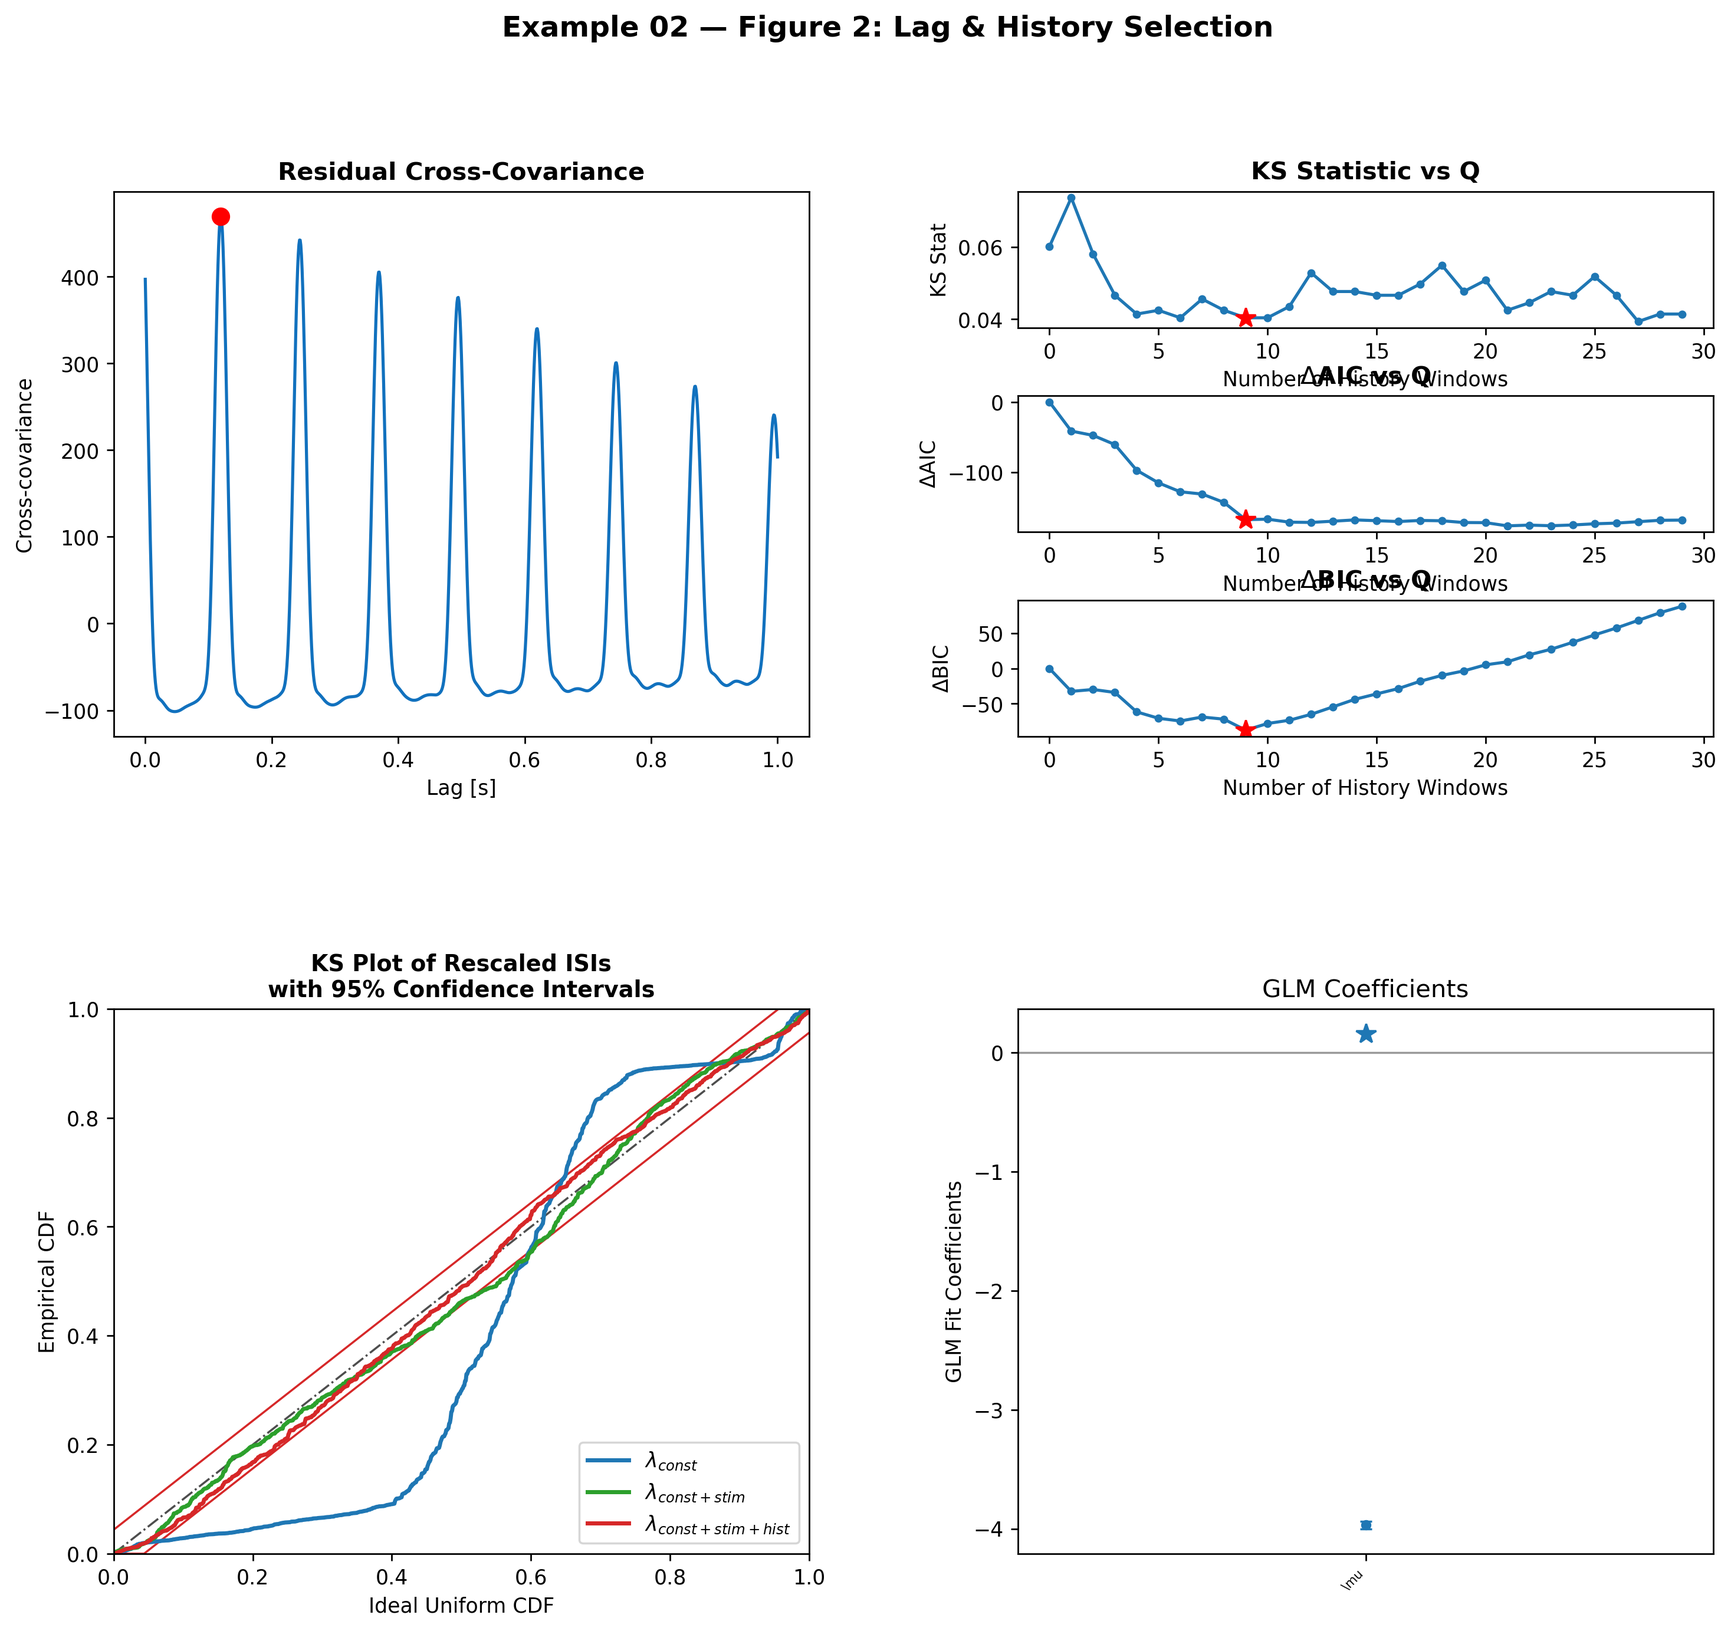
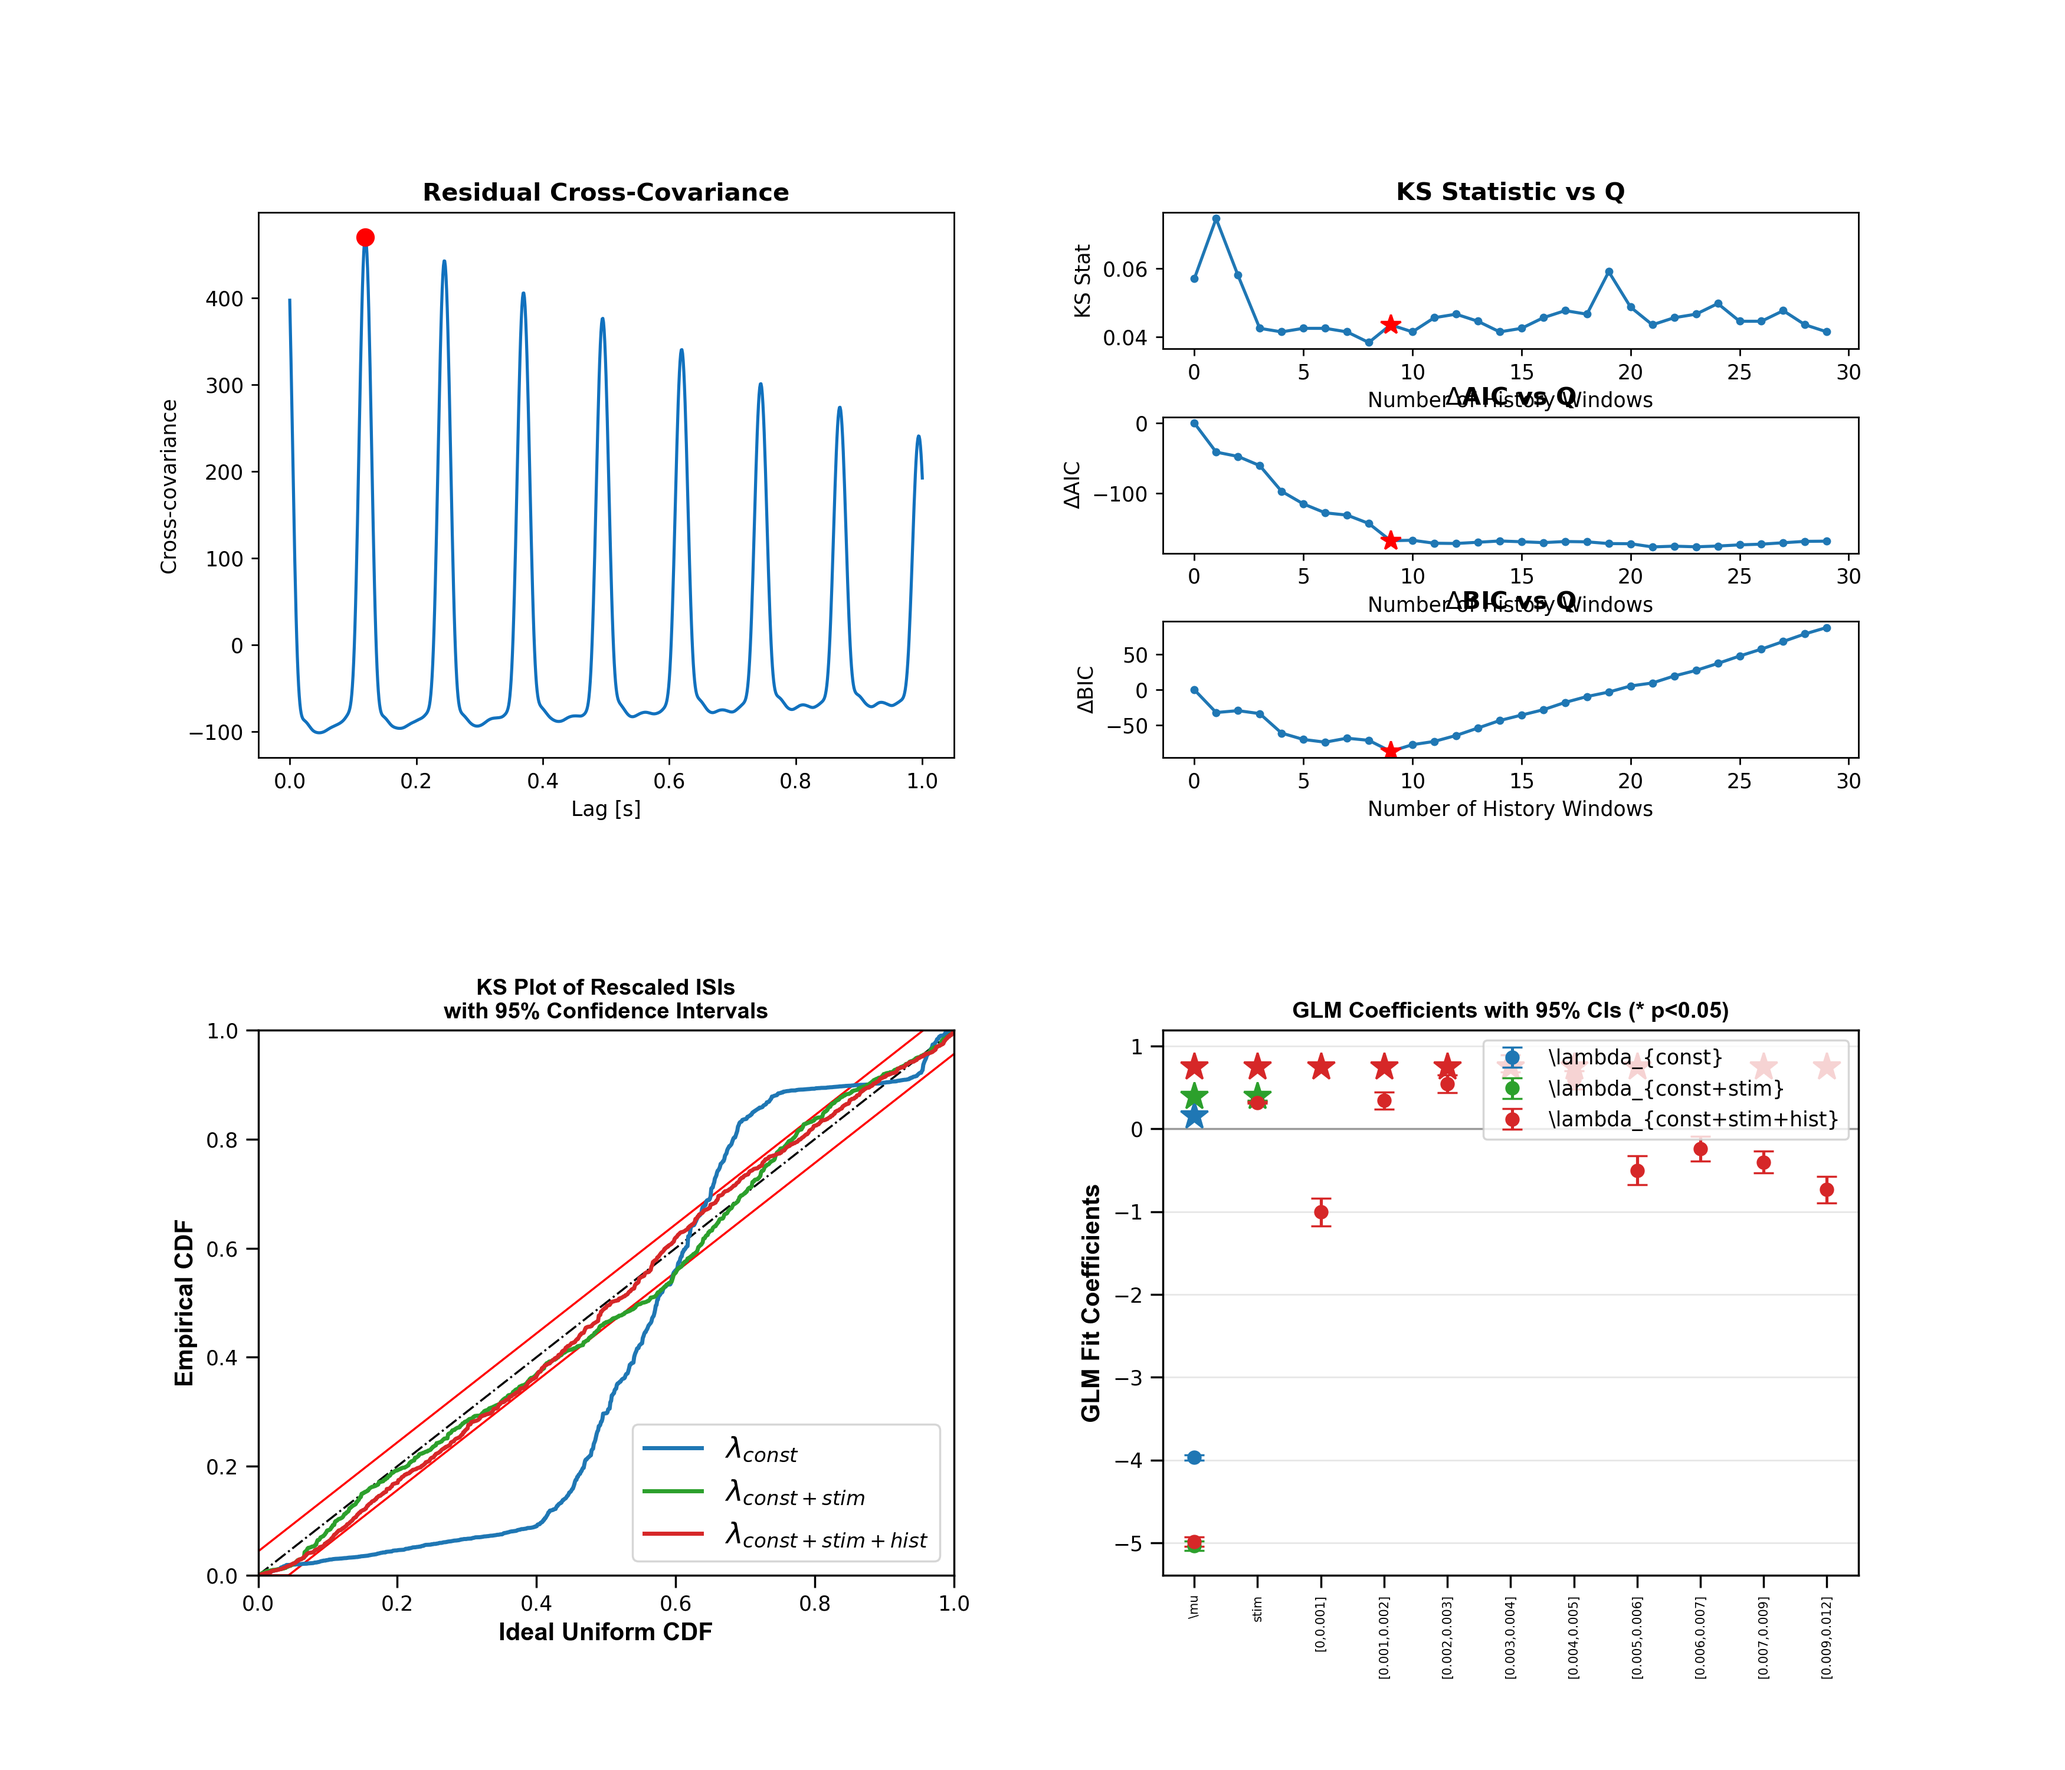
fix: match Python figures to MATLAB reference for examples 02 and 03
- Rotate fig05 stimulus-effect surfaces 90° CCW so time [s] is on x-axis
  and Trial [k] is on y-axis, matching MATLAB nSTATPaperExamples_15.png
  and fig03 bottom-panel orientation
- Increase plotCoeffs marker size (8→12), capsize (3→5), linewidth (1→1.5),
  and significance star size (10→14) so all 3 model coefficients are visible
- Add legend to plotCoeffs using lambda dataLabels, matching MATLAB behaviour
- Regenerate affected figure PNGs

diff --git a/nstat/fit.py b/nstat/fit.py
@@ -1424,7 +1424,7 @@ class FitResult:
         Matches Matlab FitResult.plotCoeffs: when *fit_num* is ``None``
         (default) all fits are overlaid with per-fit colours, errorbar
         plots with ±1 SE, and asterisks (*) above significant coefficients
-        (p < 0.05).
+        (p < 0.05).  Includes a legend matching Matlab's lambda dataLabels.
         """
         if fit_num is None:
             fit_nums = list(range(1, self.numResults + 1))
@@ -1447,6 +1447,10 @@ class FitResult:
         label_to_x = {lbl: float(j + 1) for j, lbl in enumerate(all_labels)}
         xpos_all = np.arange(1, len(all_labels) + 1, dtype=float)
 
+        # Build legend labels from lambda dataLabels (matching MATLAB)
+        lambda_labels = list(self.lambda_signal.dataLabels) if getattr(self.lambda_signal, "dataLabels", None) else []
+        errorbar_handles = []
+
         for i, fn in enumerate(fit_nums):
             diag = self._compute_diagnostics(fn)
             coeffs = np.asarray(diag["coefficients"], dtype=float)
@@ -1456,13 +1460,17 @@ class FitResult:
             xpos = np.array([label_to_x[lbl] for lbl in fit_labels])
             color = _SEQ_COLORS[i % len(_SEQ_COLORS)]
             valid_se = np.where(np.isfinite(se), se, 0.0)
-            ax.errorbar(xpos, coeffs, yerr=valid_se, fmt=".", color=color,
-                         linewidth=1.0, markersize=8.0, capsize=3.0)
+            # Larger markers and thicker error bars to match MATLAB visibility
+            h = ax.errorbar(xpos, coeffs, yerr=valid_se, fmt=".", color=color,
+                            linewidth=1.5, markersize=12.0, capsize=5.0,
+                            markeredgecolor=color, markerfacecolor=color)
+            errorbar_handles.append(h)
             if plotSignificance and np.any(sig > 0):
                 ylims = ax.get_ylim()
                 y_star = 0.8 * ylims[1] - i * 0.1
                 sig_idx = xpos[sig.astype(bool)]
-                ax.plot(sig_idx, np.full(sig_idx.size, y_star), "*", color=color, markersize=10.0)
+                ax.plot(sig_idx, np.full(sig_idx.size, y_star), "*",
+                        color=color, markersize=14.0)
 
         ax.set_xticks(xpos_all)
         ax.set_xticklabels(all_labels, rotation=90, ha="center", fontsize=6)
@@ -1473,6 +1481,10 @@ class FitResult:
         ax.tick_params(length=6, width=1)
         for spine in ax.spines.values():
             spine.set_linewidth(1.0)
+        # Add legend matching MATLAB: uses lambda dataLabels with NorthEast placement
+        if errorbar_handles and lambda_labels:
+            legend_labels = [lambda_labels[min(fn - 1, len(lambda_labels) - 1)] for fn in fit_nums]
+            ax.legend(errorbar_handles, legend_labels, loc="upper right", fontsize=10)
         return ax
 
     def plotCoeffsWithoutHistory(self, fit_num: int = 1, sortByEpoch: int = 0, plotSignificance: int = 1, handle=None):

diff --git a/examples/paper/example03_psth_and_ssglm.py b/examples/paper/example03_psth_and_ssglm.py
@@ -498,7 +498,8 @@ def run_part_b(data_dir, export_dir=None):
     # ------------------------------------------------------------------
     # Figure 5: True/PSTH/SSGLM stimulus effect surfaces
     # Match MATLAB: mesh(trial, time, data) with view([90 -90]) → top-down
-    # Using pcolormesh for clean 2D rendering matching MATLAB's top-down mesh
+    # MATLAB orientation: time [s] on x-axis, Trial [k] on y-axis
+    # (matches fig03 bottom-panel "True Conditional Intensity Function")
     # ------------------------------------------------------------------
     fig5, axes5 = plt.subplots(3, 1, figsize=(14, 9))
     trial_axis = np.arange(1, numRealizations + 1)
@@ -511,12 +512,17 @@ def run_part_b(data_dir, export_dir=None):
     ]
     for ax, (data, title_str) in zip(axes5, surfaces):
         # data is (T, K) — time on rows, trials on columns
-        # MATLAB: imagesc shows trial on x, time on y
-        ax.pcolormesh(trial_axis, basis_time[:T_act], data, cmap="viridis",
+        # Transpose so trials are on y-axis and time on x-axis,
+        # matching MATLAB nSTATPaperExamples_15.png orientation.
+        ax.pcolormesh(basis_time[:T_act], trial_axis, data.T, cmap="viridis",
                       shading="auto")
-        ax.set_ylabel("time [s]")
+        ax.set_xlabel("time [s]")
+        ax.set_ylabel("Trial [k]")
         ax.set_title(title_str, fontweight="bold", fontsize=14)
-    axes5[-1].set_xlabel("Trial [k]")
+    # Remove redundant per-subplot x-labels except the bottom one
+    for ax in axes5[:-1]:
+        ax.set_xlabel("")
+        ax.set_xticklabels([])
 
     fig5.tight_layout()
     print("  Figure 5: Stimulus effect surfaces (top-down mesh)")
